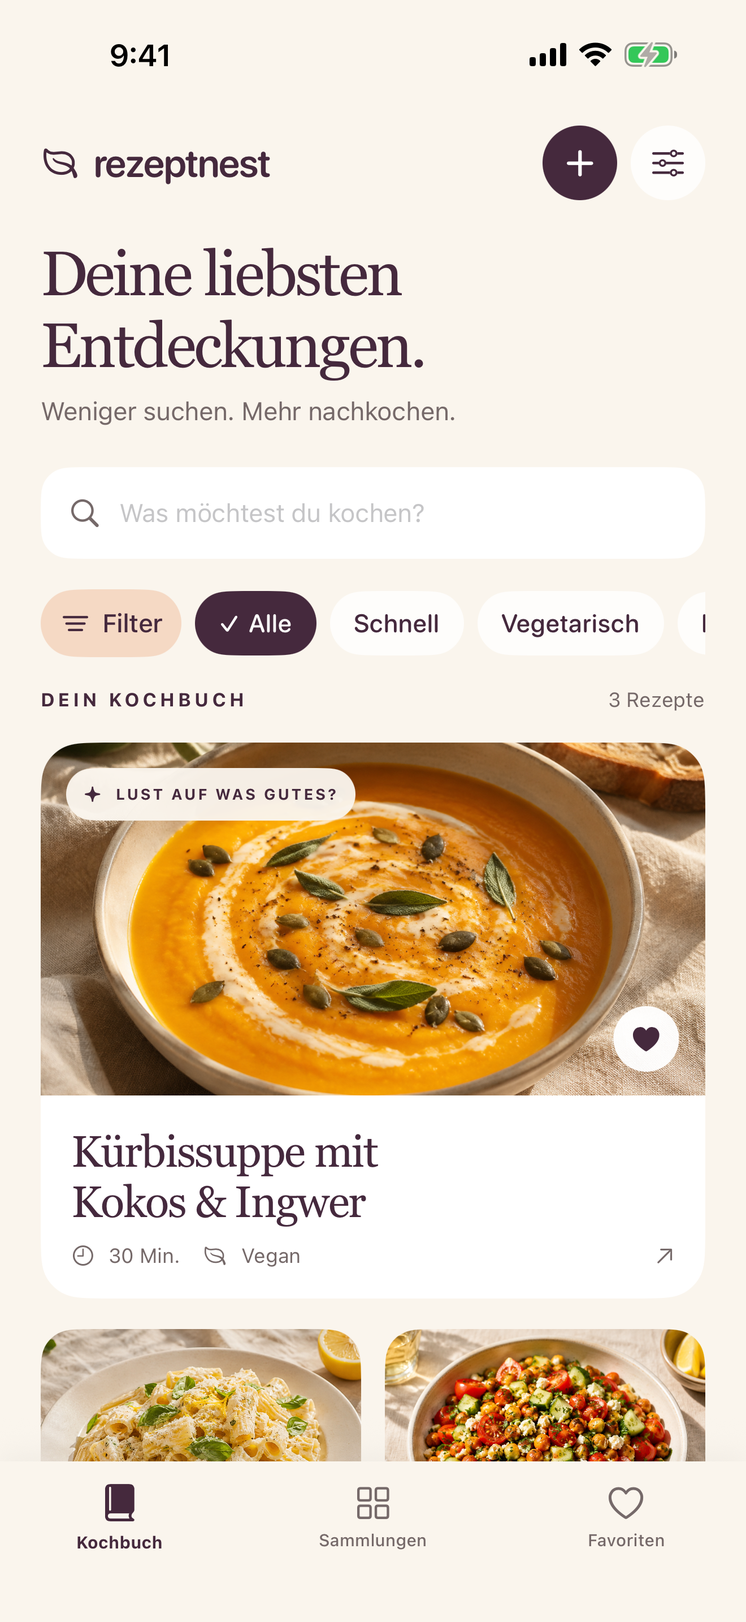
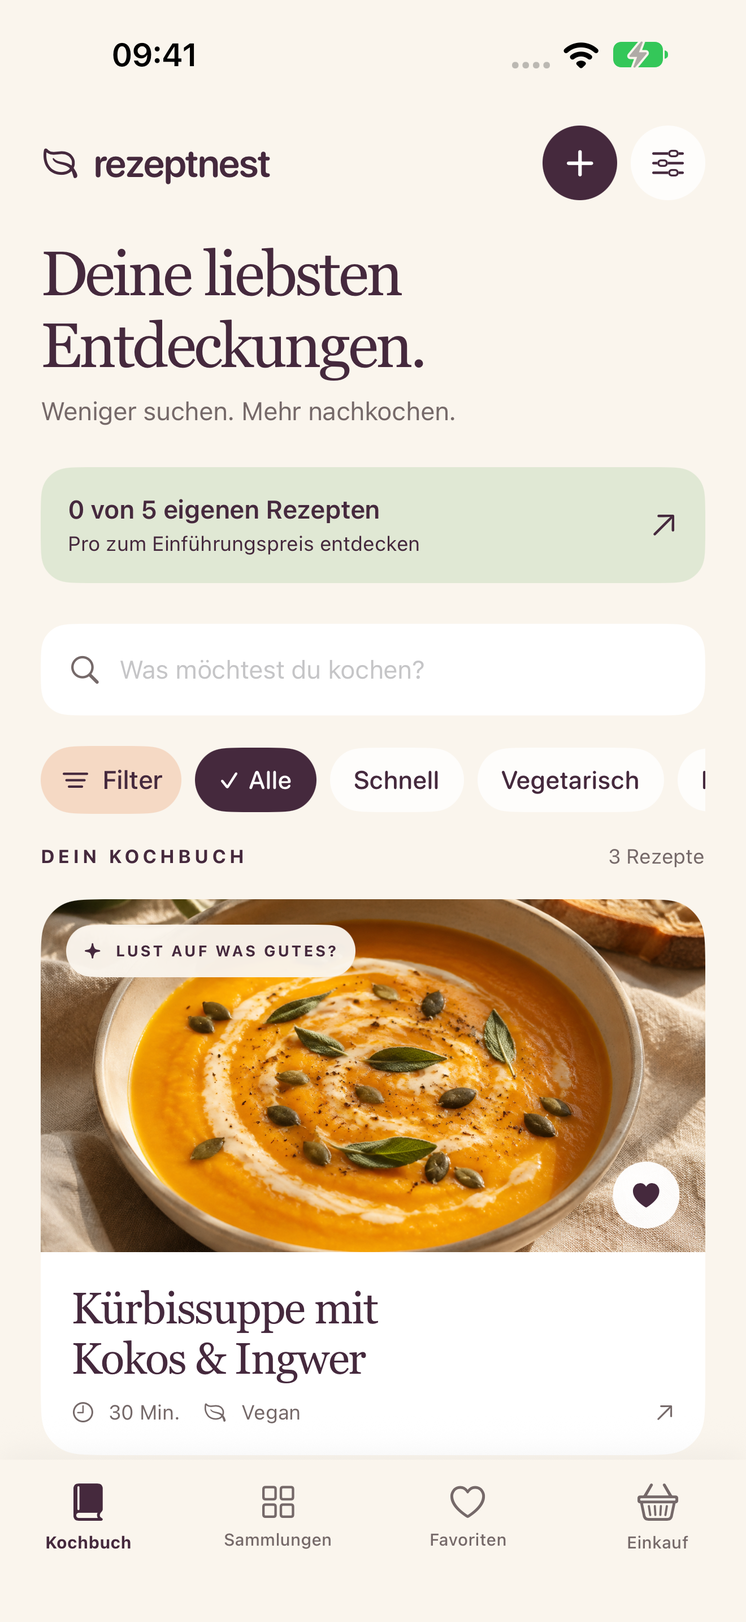
Introduce shopping lists and year-end Pro launch offer

diff --git a/index.html b/index.html
@@ -1,1 +1,1 @@
-<!doctype html><html lang="de"><head><meta charset="utf-8"><meta name="viewport" content="width=device-width,initial-scale=1"><meta name="description" content="Gute Rezepte. Ein Zuhause. Rezeptnest für iPhone: Rezepte sammeln, wiederfinden und Schritt für Schritt nachkochen."><meta name="theme-color" content="#faf5ed"><title>Dein persönliches Kochbuch · Rezeptnest</title><link rel="icon" href="assets/icon.png"><link rel="stylesheet" href="style.css"></head><body><div class="wrap"><header><a class="brand" href="index.html"><img src="assets/icon.png" alt="" width="43" height="43">rezeptnest</a><nav aria-label="Hauptnavigation"><a href="support.html">Hilfe</a><a href="privacy.html">Datenschutz</a></nav></header><main id="main"><section class="hero"><div><span class="eyebrow">Dein persönliches Kochbuch für iPhone</span><h1>Gute Rezepte.<br>Ein Zuhause.</h1><p class="lede">Für die Ideen, die du wirklich nachkochen möchtest. Sammle deine liebsten Entdeckungen und mach dein eigenes Kochbuch daraus.</p><a class="button" href="support.html">So funktioniert Rezeptnest ↗</a><p><span class="pill">Ohne Konto. Ohne Werbung. Ganz persönlich.</span></p></div><div class="hero-art"><img class="phone" src="assets/library.png" width="1320" height="2868" alt="Rezeptnest-Kochbuch mit Kürbissuppe, Zitronenpasta und Salat"></div></section><section class="section"><span class="eyebrow">Von der Idee auf den Teller</span><h2>Weniger suchen.<br>Mehr nachkochen.</h2><div class="cards"><article class="card"><span class="number">01</span><h3>Entdeckt.<br>Gespeichert.</h3><p>Teile Links mit Rezeptnest, füge Rezepttexte ein oder übernimm Text aus einem Screenshot.</p></article><article class="card"><span class="number">02</span><h3>Genau dein<br>Geschmack.</h3><p>Kombiniere Kategorien, suche nach Zutaten und finde deine Favoriten wieder.</p></article><article class="card"><span class="number">03</span><h3>Heute wird<br>nachgekocht.</h3><p>Rechne Portionen um, hake Zutaten ab und folge der Zubereitung Schritt für Schritt.</p></article></div></section><section class="section feature"><div class="tinted"><img class="phone" src="assets/recipe.png" width="1320" height="2868" loading="lazy" alt="Rezeptansicht mit Titelbildauswahl, Portionen und bearbeitbarer Zutatenliste"></div><div><span class="eyebrow">Mit jeder Mahlzeit persönlicher</span><h2>Dein Gericht.<br>Dein Kochbuch.</h2><p class="lede">Eigene Kochfotos, kleine Notizen und genau die Zutaten, die du magst. Wähle dein Lieblingsfoto als Titelbild – das Original bleibt erhalten.</p><p>Deine Rezepte liegen auf deinem iPhone. Mit einem Backup sicherst du dein Kochbuch inklusive Fotos.</p><a href="privacy.html">Mehr über deine Daten ↗</a></div></section><section class="section"><h2>Einfach anfangen.</h2><p class="lede">Drei optionale Beispielrezepte helfen dir beim Ausprobieren. Oder speichere direkt dein erstes Lieblingsrezept.</p><a class="button" href="support.html">Zur Hilfe</a><p class="fineprint">Für iPhone ab iOS 17. Die optionale Strukturierung mit Apple Intelligence benötigt ein unterstütztes iPhone, iOS 26 oder neuer und aktivierte Apple Intelligence. Öffentliche Beschreibungen und Vorschaubilder sind nicht bei jeder Quelle verfügbar. Rezeptnest analysiert keine Videos und ist unabhängig von Instagram und Meta. Die Beispiel-Foodbilder in der App sind KI-generiert.</p></section></main><footer><span>© 2026 Christopher Bennett · Rezeptnest</span><div><a href="support.html#kontakt">Kontakt</a><a href="privacy.html">Datenschutz</a></div></footer></div></body></html>
+<!doctype html><html lang="de"><head><meta charset="utf-8"><meta name="viewport" content="width=device-width,initial-scale=1"><meta name="description" content="Gute Rezepte. Ein Zuhause. Rezeptnest für iPhone: Rezepte sammeln, wiederfinden und Schritt für Schritt nachkochen."><meta name="theme-color" content="#faf5ed"><title>Dein persönliches Kochbuch · Rezeptnest</title><link rel="icon" href="assets/icon.png"><link rel="stylesheet" href="style.css?v=6"></head><body><div class="wrap"><header><a class="brand" href="index.html"><img src="assets/icon.png" alt="" width="43" height="43">rezeptnest</a><nav aria-label="Hauptnavigation"><a href="support.html">Hilfe</a><a href="privacy.html">Datenschutz</a></nav></header><aside class="launch-banner" id="launch-banner"><a href="#pro">Einführungsangebot: Pro einmalig 1,99 € bis 31.12.2026 <span>· rund 50 % sparen · Deutschland ↗</span></a></aside><main id="main"><section class="hero"><div><span class="eyebrow">Dein persönliches Kochbuch für iPhone</span><h1>Gute Rezepte.<br>Ein Zuhause.</h1><p class="lede">Für die Ideen, die du wirklich nachkochen möchtest. Sammle deine liebsten Entdeckungen und mach dein eigenes Kochbuch daraus.</p><a class="button" href="support.html">So funktioniert Rezeptnest ↗</a><p><span class="pill">Ohne Konto. Ohne Werbung. Ganz persönlich.</span></p></div><div class="hero-art"><img class="phone" src="assets/library.png" width="1320" height="2868" alt="Rezeptnest-Kochbuch mit Kürbissuppe, Zitronenpasta und Salat"></div></section><section class="section"><span class="eyebrow">Von der Idee auf den Teller</span><h2>Weniger suchen.<br>Mehr nachkochen.</h2><div class="cards"><article class="card"><span class="number">01</span><h3>Entdeckt.<br>Gespeichert.</h3><p>Teile Links mit Rezeptnest, füge Rezepttexte ein oder übernimm Text aus einem Screenshot.</p></article><article class="card"><span class="number">02</span><h3>Genau dein<br>Geschmack.</h3><p>Kombiniere Kategorien, suche nach Zutaten und finde deine Favoriten wieder.</p></article><article class="card"><span class="number">03</span><h3>Heute wird<br>nachgekocht.</h3><p>Rechne Portionen um, hake Zutaten ab und folge der Zubereitung Schritt für Schritt.</p></article></div></section><section class="section feature"><div class="tinted"><img class="phone" src="assets/recipe.png" width="1320" height="2868" loading="lazy" alt="Rezeptansicht mit Titelbildauswahl, Portionen und bearbeitbarer Zutatenliste"></div><div><span class="eyebrow">Mit jeder Mahlzeit persönlicher</span><h2>Dein Gericht.<br>Dein Kochbuch.</h2><p class="lede">Eigene Kochfotos, kleine Notizen und genau die Zutaten, die du magst. Wähle dein Lieblingsfoto als Titelbild – das Original bleibt erhalten.</p><p>Deine Rezepte liegen auf deinem iPhone. Mit einem Backup sicherst du dein Kochbuch inklusive Fotos.</p><a href="privacy.html">Mehr über deine Daten ↗</a></div></section><section class="section feature"><div><span class="eyebrow">Vom Kochbuch in den Einkaufskorb</span><h2>Für alle am Tisch.<br>Alles auf der Liste.</h2><p class="lede">Wähle die Portionen, übernimm die Zutaten und ergänze, was sonst noch fehlt. Deine Einkaufsliste ordnet Artikel nach Supermarktbereichen – und lässt dir jederzeit die Wahl.</p><p>Lieber Apple Erinnerungen? Sende offene Artikel an eine deiner Listen. Es entstehen Kopien, die du dort unabhängig abhaken kannst.</p></div><div class="tinted"><img class="phone" src="assets/shopping.png" width="1320" height="2868" loading="lazy" alt="Einkaufsliste mit Zutaten nach Supermarktbereichen"></div></section><section class="section offer" id="pro"><span class="eyebrow">Dein Kochbuch darf wachsen</span><h2>Fünf Rezepte zum Start.<br>Mit Pro ohne Grenzen.</h2><p class="lede">Fünf eigene Rezepte und drei optionale Beispiele sind kostenlos. Einkaufsliste, Portionen und Kochmodus bleiben dabei. Pro schaltet unbegrenzt eigene Rezepte frei: einmal zahlen, dauerhaft nutzen.</p><div id="launch-offer" class="note"><strong>Einführungsangebot: rund 50 % sparen.</strong><p>Bis 31.12.2026 einmalig <strong>1,99 €</strong>, ab 01.01.2027 regulär <strong>3,99 €</strong>. Dein Pro-Zugang bleibt dauerhaft. Kein Abo.</p><p class="fineprint">Preise für Deutschland. In anderen Ländern gilt der im App Store angezeigte lokale Preis. Erhältlich als In-App-Kauf in Rezeptnest.</p></div><div id="regular-price" class="note" hidden><strong>Rezeptnest Pro: einmalig 3,99 € in Deutschland.</strong><p>Kein Abo. In anderen Ländern gilt der lokale App-Store-Preis.</p></div></section><section class="section"><h2>Einfach anfangen.</h2><p class="lede">Drei optionale Beispielrezepte helfen dir beim Ausprobieren. Oder speichere direkt dein erstes Lieblingsrezept.</p><a class="button" href="support.html">Zur Hilfe</a><p class="fineprint">Für iPhone ab iOS 17. Die optionale Strukturierung mit Apple Intelligence benötigt ein unterstütztes iPhone, iOS 26 oder neuer und aktivierte Apple Intelligence. Öffentliche Beschreibungen und Vorschaubilder sind nicht bei jeder Quelle verfügbar. Rezeptnest analysiert keine Videos und ist unabhängig von Instagram und Meta. Die Beispiel-Foodbilder in der App sind KI-generiert.</p></section></main><footer><span>© 2026 Christopher Bennett · Rezeptnest</span><div><a href="support.html#kontakt">Kontakt</a><a href="privacy.html">Datenschutz</a></div></footer></div><script src="offer.js?v=6"></script></body></html>

diff --git a/support.html b/support.html
@@ -1,10 +1,15 @@
-<!doctype html><html lang="de"><head><meta charset="utf-8"><meta name="viewport" content="width=device-width,initial-scale=1"><meta name="description" content="Hilfe zu Rezeptimport, eigenen Kochfotos, Zutaten, Portionen und Backups. Kontakt zum Rezeptnest-Support."><meta name="theme-color" content="#faf5ed"><title>Hilfe & Kontakt · Rezeptnest</title><link rel="icon" href="assets/icon.png"><link rel="stylesheet" href="style.css"></head><body><div class="wrap"><header><a class="brand" href="index.html"><img src="assets/icon.png" alt="" width="43" height="43">rezeptnest</a><nav aria-label="Hauptnavigation"><a href="support.html">Hilfe</a><a href="privacy.html">Datenschutz</a></nav></header><main id="main"><article class="prose"><span class="eyebrow">Wir helfen dir weiter</span><h1>Dein Rezeptnest.<br>Deine Fragen.</h1><p class="lede">Vom ersten gespeicherten Rezept bis zum eigenen Kochfoto: Hier findest du die wichtigsten Antworten.</p>
+<!doctype html><html lang="de"><head><meta charset="utf-8"><meta name="viewport" content="width=device-width,initial-scale=1"><meta name="description" content="Hilfe zu Rezeptimport, eigenen Kochfotos, Zutaten, Portionen und Backups. Kontakt zum Rezeptnest-Support."><meta name="theme-color" content="#faf5ed"><title>Hilfe & Kontakt · Rezeptnest</title><link rel="icon" href="assets/icon.png"><link rel="stylesheet" href="style.css?v=6"></head><body><div class="wrap"><header><a class="brand" href="index.html"><img src="assets/icon.png" alt="" width="43" height="43">rezeptnest</a><nav aria-label="Hauptnavigation"><a href="support.html">Hilfe</a><a href="privacy.html">Datenschutz</a></nav></header><main id="main"><article class="prose"><span class="eyebrow">Wir helfen dir weiter</span><h1>Dein Rezeptnest.<br>Deine Fragen.</h1><p class="lede">Vom ersten gespeicherten Rezept bis zum eigenen Kochfoto: Hier findest du die wichtigsten Antworten.</p>
 <details open><summary>Wie speichere ich ein Rezept?</summary><p>Tippe im Kochbuch auf das Plus. Füge einen Link und, falls vorhanden, den Rezepttext ein. Tippe auf „Rezept vorbereiten“, prüfe Titel, Zutaten und Schritte und speichere das Rezept. Über „Oder selbst ein Rezept schreiben“ kannst du ein eigenes Rezept anlegen.</p></details>
 <details><summary>Wie teile ich ein Instagram-Rezept?</summary><p>Öffne beim Reel das Teilen-Menü und danach die iOS-Teilen-Auswahl. Wähle Rezeptnest, gegebenenfalls unter „Mehr“. Bei öffentlichen Instagram-Beiträgen versucht die App, die verfügbare Beschreibung und ein Vorschaubild zu übernehmen. Du kannst den Text bearbeiten, Kategorien wählen und das Rezept speichern.</p><p>Private, gesperrte oder eingeschränkte Beiträge liefern möglicherweise keinen Text oder kein Bild. Ergänze dann den Rezepttext selbst oder importiere einen Screenshot. Der Link kann auch als Idee gespeichert werden. Videos werden nicht heruntergeladen oder analysiert.</p></details>
 <details><summary>Kann ich Text aus einem Screenshot übernehmen?</summary><p>Ja. Wähle beim Hinzufügen „Text aus Screenshot übernehmen“ und anschließend das gewünschte Bild. Die Texterkennung arbeitet direkt auf deinem iPhone. Gut lesbarer, scharfer Text liefert die besten Ergebnisse. Prüfe Mengen und Schritte vor dem Speichern.</p></details>
 <details><summary>Wie wähle ich mein eigenes Foto als Titelbild?</summary><p>Öffne ein Rezept und tippe auf „Titelbild ändern“. Wähle das Originalbild, ein vorhandenes Kochfoto oder „Neues Foto auswählen“. Mit „Speichern“ erscheint das gewählte Foto im Rezept und in deiner Übersicht. Das Original bleibt auswählbar. Wird das gewählte Kochfoto gelöscht, verwendet die App wieder das Original oder einen Platzhalter.</p></details>
 <details><summary>Wie ändere ich Zutaten oder den Titel?</summary><p>Tippe neben „Das kommt rein.“ auf „Bearbeiten“. Du kannst Zutaten hinzufügen, ändern oder löschen. Der Editor zeigt die Mengen für die ursprünglich gespeicherte Portionenzahl. Nach dem Speichern werden vorhandene Häkchen zurückgesetzt.</p><p>Den Titel findest du über das Rezeptmenü „…“ im Rezepteditor. Tippe in das Titelfeld; mit dem × kannst du es vollständig leeren und neu eingeben. Das funktioniert auch beim Teilen nach Rezeptnest.</p></details>
 <details><summary>Wie funktionieren Portionen und Kochmodus?</summary><p>Mit − und + stellst du die Portionen ein. Mengen mit einer Zahl am Zeilenanfang werden umgerechnet. Bitte prüfe Zutaten, deren Mengen nicht eindeutig erkannt werden. „Loskochen“ öffnet die Zubereitung Schritt für Schritt und hält den Bildschirm während des Kochmodus aktiv.</p></details>
+<details><summary>Wie plane ich den Einkauf für ein Rezept?</summary><p>Öffne das Rezept und tippe auf „Auf die Einkaufsliste“. Wähle die gewünschte Portionenzahl und entferne Häkchen bei Zutaten, die du schon hast. Mit „Hinzufügen“ landen die ausgewählten, umgerechneten Mengen in deiner Liste. Du kannst auch im Tab „Einkauf“ ein Rezept auswählen.</p><p>Prüfe die Mengen vor dem Einkaufen. Die Liste speichert eine Kopie; spätere Rezeptänderungen verändern bereits hinzugefügte Artikel nicht. Zutaten aus mehreren Rezepten werden einzeln mit ihrer Herkunft angezeigt.</p></details>
+<details><summary>Kann ich andere Einkäufe ergänzen und Bereiche ändern?</summary><p>Ja. Mit „Artikel hinzufügen“ fügst du Lebensmittel oder Haushaltsartikel hinzu. Die App schlägt einen Supermarktbereich vor; du kannst ihn im Artikel-Editor ändern. Tippe auf den Stift neben einem Artikel, um Text oder Bereich anzupassen. Hake Erledigtes ab und entferne es bei Bedarf.</p><p>Die Einkaufsliste liegt lokal auf dem Gerät und ist nicht im Rezept-Backup enthalten.</p></details>
+<details><summary>Wie exportiere ich nach Apple Erinnerungen?</summary><p>Tippe in der Einkaufsliste auf „An Apple Erinnerungen senden“ und anschließend auf „Erinnerungslisten laden“. Erlaube den Zugriff und wähle eine vorhandene, beschreibbare Liste. Falls keine Liste verfügbar ist, lege zuerst eine in Apple Erinnerungen an.</p><p>Nur offene Artikel werden kopiert. Bereits an dieselbe Liste gesendete Artikel werden übersprungen. Supermarktbereich und Rezeptquelle stehen in den Notizen. Änderungen und Häkchen werden nicht zwischen den Apps synchronisiert. Du kannst Rezeptnest auch ohne Erinnerungszugriff nutzen.</p></details>
+<details><summary>Was ist kostenlos, und was kann Pro?</summary><p>Du kannst fünf eigene Rezepte kostenlos speichern. Die drei Beispielrezepte zählen nicht zum Limit. Einkaufsliste, Portionen, Kochmodus und die Bearbeitung vorhandener Rezepte bleiben kostenlos. Rezeptnest Pro schaltet mit einem einmaligen Kauf unbegrenzt eigene Rezepte frei. Es gibt kein Abo.</p><p>Einführungsangebot für Deutschland: 1,99 € bis 31.12.2026, regulär 3,99 € ab 01.01.2027. Das entspricht rund 50 % Ersparnis. In anderen Ländern gilt der im App Store angezeigte lokale Preis. Ein während des Angebots gekaufter Pro-Zugang bleibt dauerhaft.</p></details>
+<details><summary>Wie stelle ich meinen Pro-Kauf wieder her?</summary><p>Nutze auf dem iPhone denselben Apple Account wie beim Kauf. Öffne in Rezeptnest die Einstellungen, dann Rezeptnest Pro und „Käufe wiederherstellen“. Der Kauf stellt die Freischaltung wieder her; deine Rezepte überträgst du separat per Backup. Ein Backup mit mehr als fünf eigenen Rezepten benötigt Pro. Vorhandene Rezepte bleiben auch ohne Freischaltung lesbar und bearbeitbar.</p></details>
 <details><summary>Brauche ich Apple Intelligence?</summary><p>Nein. Die App funktioniert ab iOS 17. Auf unterstützten iPhones mit iOS 26 oder neuer und aktivierter Apple Intelligence werden Rezepttexte zusätzlich direkt auf dem Gerät strukturiert. Ohne diese Funktion werden Überschriften wie „Zutaten“ und „Zubereitung“ zum Vorsortieren genutzt. Du kannst alle Angaben selbst bearbeiten.</p></details>
 <details><summary>Wie sichere ich meine Rezepte oder wechsle das iPhone?</summary><p>Öffne die Einstellungen und wähle „Backup mit Fotos exportieren“. Bewahre die JSON-Datei an einem sicheren Ort auf. Auf dem anderen Gerät wählst du „Backup importieren“. Neue Rezepte werden hinzugefügt; bereits vorhandene Rezept-IDs werden nicht ersetzt. Es gibt keine eigene automatische Cloud-Synchronisierung.</p><p>Backups enthalten Rezepttexte, Links, Notizen und Fotos. Bewahre sie privat auf und exportiere ein Backup, bevor du die App löschst.</p></details>
 <details><summary>Wie lösche ich meine Daten?</summary><p>Öffne ein Rezept, tippe auf „…“, wähle „Löschen“ und bestätige. Zugehörige Kochfotos werden ebenfalls entfernt. Einzelne Kochfotos kannst du in der Fotoansicht löschen. Exportierte Backups musst du separat entfernen. Beim Löschen der App kann das lokale Kochbuch verloren gehen.</p></details>

diff --git a/privacy.html b/privacy.html
@@ -1,7 +1,7 @@
-<!doctype html><html lang="de"><head><meta charset="utf-8"><meta name="viewport" content="width=device-width,initial-scale=1"><meta name="description" content="Informationen zur lokalen Speicherung, Importen, Apple Intelligence, Fotos, Backups und dem Rezeptnest-Support."><meta name="theme-color" content="#faf5ed"><title>Datenschutz · Rezeptnest</title><link rel="icon" href="assets/icon.png"><link rel="stylesheet" href="style.css"></head><body><div class="wrap"><header><a class="brand" href="index.html"><img src="assets/icon.png" alt="" width="43" height="43">rezeptnest</a><nav aria-label="Hauptnavigation"><a href="support.html">Hilfe</a><a href="privacy.html">Datenschutz</a></nav></header><main id="main"><article class="prose"><span class="eyebrow">Privat bleibt persönlich</span><h1>Dein Kochbuch.<br>Deine Daten.</h1><p class="updated">Datenschutzhinweise · Stand: 24. Oktober 2026 · Rezeptnest 1.0.0</p><p class="note">Rezeptnest benötigt kein Konto und enthält keine Werbung oder Analyse-SDKs. Rezepte und Fotos speichert die App lokal. Für den Import öffentlicher Beschreibungen und Bilder kontaktiert sie die jeweilige Quelle direkt.</p>
+<!doctype html><html lang="de"><head><meta charset="utf-8"><meta name="viewport" content="width=device-width,initial-scale=1"><meta name="description" content="Informationen zur lokalen Speicherung, Importen, Apple Intelligence, Fotos, Backups und dem Rezeptnest-Support."><meta name="theme-color" content="#faf5ed"><title>Datenschutz · Rezeptnest</title><link rel="icon" href="assets/icon.png"><link rel="stylesheet" href="style.css?v=6"></head><body><div class="wrap"><header><a class="brand" href="index.html"><img src="assets/icon.png" alt="" width="43" height="43">rezeptnest</a><nav aria-label="Hauptnavigation"><a href="support.html">Hilfe</a><a href="privacy.html">Datenschutz</a></nav></header><main id="main"><article class="prose"><span class="eyebrow">Privat bleibt persönlich</span><h1>Dein Kochbuch.<br>Deine Daten.</h1><p class="updated">Datenschutzhinweise · Stand: 24. Oktober 2026 · Rezeptnest 1.0.0</p><p class="note">Rezeptnest benötigt kein Konto und enthält keine Werbung oder Analyse-SDKs. Rezepte und Fotos speichert die App lokal. Für den Import öffentlicher Beschreibungen und Bilder kontaktiert sie die jeweilige Quelle direkt.</p>
 <h2>1. Verantwortlicher und Kontakt</h2><p>Christopher Bennett ist für Rezeptnest und diese Website verantwortlich. Bei Datenschutzfragen erreichst du ihn unter <a href="mailto:christopherbennett@aimare.ai">christopherbennett@aimare.ai</a>.</p>
 <h2>2. Dein lokales Rezeptbuch</h2><p>Titel, Zutaten, Zubereitungsschritte, Kategorien, Original-Links, Notizen, Favoriten, Kochverlauf und ausgewählte Fotos liegen im lokalen App-Speicher. App und Teilen-Erweiterung verwenden einen gemeinsamen, von iOS verwalteten Container. Der Anbieter erhält diese Inhalte nicht über einen Rezeptnest-Server; einen solchen Backend-Dienst gibt es nicht.</p><p>Die Inhalte bleiben gespeichert, bis du sie löschst. Beim Entfernen der App kann das lokale Kochbuch verloren gehen. Je nach deinen Einstellungen kann Apple den App-Speicher in ein Gerätebackup aufnehmen.</p>
-<h2>3. Fotos, Texterkennung und Apple Intelligence</h2><p>Fotos wählst du einzeln über die Systemauswahl von Apple. Die App verlangt keinen pauschalen Zugriff auf deine Fotomediathek. Ausgewählte Bilder werden verkleinert und neu kodiert; ursprüngliche Bildmetadaten werden nicht übernommen.</p><p>Die Texterkennung aus Screenshots erfolgt mit Apple Vision auf dem Gerät. Die optionale Rezeptstrukturierung mit Apples Foundation Models verarbeitet Rezepttexte ebenfalls auf dem Gerät. Dafür werden keine Rezepttexte an einen externen KI-Dienst gesendet. Die Funktion erfordert ein unterstütztes iPhone mit iOS 26 oder neuer und aktivierter Apple Intelligence.</p>
+<h2>Einkaufsliste und Apple Erinnerungen</h2><p>Einkaufsartikel, Mengen, Supermarktbereiche, Häkchen und Rezeptquellen werden lokal gespeichert. Die Liste ist nicht im Rezept-Backup enthalten. Beim optionalen Export fragt die App nach vollständigem Zugriff auf Erinnerungen, da Apple hierfür keine reine Schreibberechtigung anbietet. Du kannst die Berechtigung verweigern oder jederzeit in den iPhone-Einstellungen widerrufen.</p><p>Rezeptnest zeigt beschreibbare Listen zur Auswahl an. Zum Export liest es nur die ausgewählte Liste, um wiederholte Exporte zu vermeiden. Offene Artikel werden als Erinnerungen mit Bereich und Rezeptquelle in den Notizen angelegt. Technische Exportkennungen bleiben lokal beziehungsweise in den von dir gewählten Erinnerungen. Die App sendet diese Daten nicht an den Entwickler. Je nach gewähltem Erinnerungsaccount kann Apple oder dessen Anbieter die Kopien synchronisieren. Änderungen und Häkchen werden nicht mit Rezeptnest abgeglichen.</p><h2>Einmaliger Pro-Kauf</h2><p>Apple wickelt In-App-Käufe und Zahlungen über deinen Apple Account ab. Rezeptnest prüft mit StoreKit, ob ein bestätigter Pro-Kauf vorliegt, und speichert die Freischaltung lokal auch für die Teilen-Erweiterung. Die App erhält keine Zahlungsdaten und überträgt keine Kaufkennung oder Rezeptinhalte an einen Entwickler-Server. Apple kann dem Entwickler Verkaufsabrechnungen und zusammengefasste Berichte bereitstellen. Für die Verarbeitung durch Apple gelten dessen Datenschutzbedingungen.</p><h2>3. Fotos, Texterkennung und Apple Intelligence</h2><p>Fotos wählst du einzeln über die Systemauswahl von Apple. Die App verlangt keinen pauschalen Zugriff auf deine Fotomediathek. Ausgewählte Bilder werden verkleinert und neu kodiert; ursprüngliche Bildmetadaten werden nicht übernommen.</p><p>Die Texterkennung aus Screenshots erfolgt mit Apple Vision auf dem Gerät. Die optionale Rezeptstrukturierung mit Apples Foundation Models verarbeitet Rezepttexte ebenfalls auf dem Gerät. Dafür werden keine Rezepttexte an einen externen KI-Dienst gesendet. Die Funktion erfordert ein unterstütztes iPhone mit iOS 26 oder neuer und aktivierter Apple Intelligence.</p>
 <h2>4. Beschreibungen und Vorschaubilder importieren</h2><p>Beim Einfügen oder Teilen eines unterstützten Instagram-Links ruft Rezeptnest die öffentlich erreichbare Beschreibung direkt bei Instagram ab. Meta erhält dabei technisch die IP-Adresse und die angefragte Beitragsadresse. Die App verwendet keine Instagram-Anmeldung und keine gespeicherten Browser-Cookies. Sie entfernt Tracking-Parameter für den Abruf, erhält aber den gespeicherten Original-Link. Videos werden nicht geladen oder analysiert.</p><p>Beim Vorbereiten oder Teilen eines Rezeptlinks versucht die App zusätzlich, ein öffentliches Vorschaubild zu übernehmen. Dazu ruft sie die Rezeptseite beziehungsweise das öffentliche Instagram-Embed und das dort angegebene Bild direkt ab. Die Quellen- und Bildserver erhalten die IP-Adresse und die angefragte Adresse. Auch hierfür werden keine gespeicherten Browser-Cookies oder Anmeldedaten verwendet. Das Bild wird verkleinert, ohne ursprüngliche Metadaten neu kodiert und lokal gespeichert.</p><p>Diese Verbindungen dienen der von dir ausgelösten Importfunktion. Beschreibungen und Bilder sind nicht bei jeder Quelle verfügbar. Die jeweiligen Anbieter verarbeiten Daten nach ihren eigenen Datenschutzbedingungen; bei Instagram siehe <a href="https://privacycenter.instagram.com/policy/">Metas Datenschutzhinweise</a>. Je nach Quelle kann eine Verarbeitung außerhalb des Europäischen Wirtschaftsraums stattfinden.</p>
 <h2>5. Original-Links und Backups</h2><p>„Original ansehen“ öffnet auf deinen Wunsch die zuständige Website oder App. Dort gelten die Regeln des jeweiligen Anbieters. Ein JSON-Backup einschließlich Rezeptfotos exportierst und importierst du über die iOS-Dateiauswahl. Du bestimmst den Speicherort und eine mögliche Weitergabe. Für Cloud-Speicher gelten die Bedingungen des gewählten Dienstes. Rezeptnest bietet keine eigene Cloud-Synchronisierung.</p>
 <h2>6. Support per E-Mail</h2><p>Wenn du uns schreibst, verarbeiten wir deine E-Mail-Adresse, den Nachrichteninhalt und freiwillig beigefügte Informationen, um dein Anliegen zu beantworten. Bitte sende nur nötige Angaben. Die Verarbeitung erfolgt für anwendungsbezogene Anfragen auf Grundlage von Art. 6 Abs. 1 lit. b DSGVO, ansonsten zur Bearbeitung von Anfragen und Verbesserung der Zuverlässigkeit auf Grundlage von Art. 6 Abs. 1 lit. f DSGVO. Dabei werden die für die E-Mail-Zustellung erforderlichen Maildienstleister einbezogen.</p><p>Supportdaten werden so lange aufbewahrt, wie sie zur Bearbeitung und nachvollziehbaren Klärung der Anfrage erforderlich sind. Danach werden sie gelöscht, soweit keine gesetzlichen Aufbewahrungspflichten oder die Geltendmachung beziehungsweise Verteidigung von Ansprüchen entgegenstehen.</p>

diff --git a/style.css b/style.css
@@ -1,1 +1,3 @@
 :root{--cream:#faf5ed;--plum:#45293d;--muted:#786b72;--peach:#f3ddcd;--sage:#e3e8d7}*{box-sizing:border-box}html{scroll-behavior:smooth}body{margin:0;color:var(--plum);background:var(--cream);font:17px/1.65 -apple-system,BlinkMacSystemFont,"Segoe UI",sans-serif}a{color:inherit;text-underline-offset:4px}a:focus-visible,summary:focus-visible{outline:3px solid #946c88;outline-offset:5px;border-radius:4px}.wrap{width:min(1140px,calc(100% - 48px));margin:auto}header{display:flex;justify-content:space-between;align-items:center;gap:24px;padding:28px 0;border-bottom:1px solid #45293d18}.brand{display:flex;align-items:center;gap:12px;text-decoration:none;font-weight:700;font-size:22px;letter-spacing:-.7px}.brand img{width:43px;height:43px;border-radius:12px}nav{display:flex;gap:24px;font-size:14px}nav a{text-decoration:none}nav a:hover{text-decoration:underline}h1,h2,h3{font-family:Georgia,serif;font-weight:400;line-height:1.1;letter-spacing:-1.2px}h1{font-size:clamp(45px,6.5vw,80px);margin:20px 0 26px}h2{font-size:clamp(32px,4vw,48px);margin:0 0 20px}h3{font-size:27px;letter-spacing:-.5px}.eyebrow{font-size:12px;font-weight:650;letter-spacing:2px;text-transform:uppercase}.lede{font-size:20px;max-width:580px;color:var(--muted)}.hero{display:grid;grid-template-columns:1.1fr 1fr;align-items:center;gap:70px;padding:64px 0 70px}.hero-art{background:var(--peach);border-radius:48% 48% 24px 24px;padding:35px 35px 0;overflow:hidden;max-height:660px}.phone{display:block;width:100%;height:auto;max-width:290px;margin:auto;border:7px solid #352c32;border-radius:42px;box-shadow:0 18px 36px #45293d26}.pill{display:inline-block;background:var(--sage);border-radius:30px;padding:8px 16px;font-size:13px}.button{display:inline-block;background:var(--plum);color:var(--cream);padding:14px 23px;border-radius:100px;text-decoration:none;font-size:15px;font-weight:600;margin:18px 12px 8px 0}.button.light{background:white;color:var(--plum)}.section{padding:65px 0;border-top:1px solid #45293d18}.cards{display:grid;grid-template-columns:repeat(3,1fr);gap:24px}.card{padding:30px;border-radius:24px;background:#fff}.card .number{font:italic 24px Georgia;color:#9a7784}.card p{color:var(--muted);font-size:15px}.feature{display:grid;grid-template-columns:1fr 1fr;gap:70px;align-items:center}.feature .phone{max-height:580px;width:auto;max-width:100%}.tinted{background:var(--sage);padding:40px;border-radius:30px}.prose{max-width:770px;margin:70px auto 90px}.prose h1{font-size:clamp(42px,6vw,66px)}.prose h2{font-size:29px;letter-spacing:-.4px;margin-top:42px}.prose p,.prose li{color:#675a63}.prose strong{color:var(--plum)}.note{background:var(--sage);padding:24px 28px;border-radius:18px}.updated{font-size:14px;color:var(--muted)}details{padding:23px 0;border-bottom:1px solid #45293d22}summary{cursor:pointer;font-weight:650;font-size:18px}details p{margin-bottom:5px}.contact{background:var(--plum);color:var(--cream);padding:32px;border-radius:24px;margin-top:38px}.contact p{color:#f0e3e9}.contact a{overflow-wrap:anywhere}footer{padding:30px 0 45px;border-top:1px solid #45293d18;font-size:13px;color:var(--muted);display:flex;flex-wrap:wrap;justify-content:space-between;gap:20px}footer div{display:flex;gap:20px}.fineprint{font-size:13px;color:var(--muted)}@media(max-width:700px){.wrap{width:calc(100% - 36px)}header{padding:20px 0;align-items:flex-start}nav{gap:12px;font-size:12px;padding-top:10px}.brand{font-size:19px}.brand img{width:34px;height:34px}.hero{grid-template-columns:1fr;gap:36px;padding-top:40px}.hero-art{max-height:550px;padding:28px 35px 0}.hero .lede{font-size:18px}.cards,.feature{grid-template-columns:1fr;gap:20px}.section{padding:44px 0}.prose{margin-top:45px}.tinted{padding:28px}.contact{padding:25px}.contact a{font-size:16px}}@media(prefers-reduced-motion:reduce){html{scroll-behavior:auto}}
+
+.launch-banner{padding:14px 20px;background:var(--sage);border-radius:14px;margin-top:20px;text-align:center;font-size:14px;font-weight:600}.launch-banner a{text-decoration:none}.launch-banner span{font-weight:400}.offer{scroll-margin-top:30px}

diff --git a/offer.js b/offer.js
@@ -1,0 +1,6 @@
+// Only the date is checked locally; no analytics, requests or browser storage.
+if (Date.now() >= Date.parse('2027-01-01T00:00:00+01:00')) {
+  document.getElementById('launch-offer').hidden = true;
+  document.getElementById('launch-banner').hidden = true;
+  document.getElementById('regular-price').hidden = false;
+}
